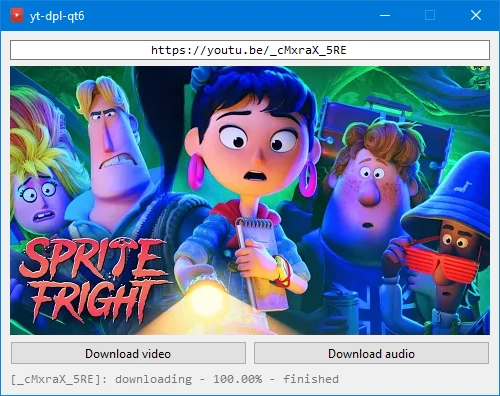
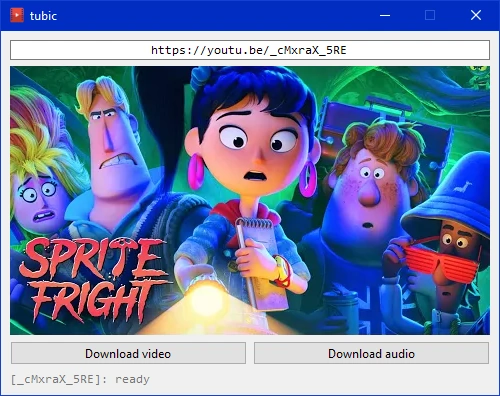
REDAME++

diff --git a/README.md b/README.md
@@ -3,13 +3,77 @@
 # tubic
 ![Screenshot](tubic.webp)
 
-A simple graphical interface for the [yt-dlp](https://github.com/yt-dlp/yt-dlp) tool.
+A simple lightweight portable single-file program to download videos from YouTube.
 
-The application is packed in a single executable file with no dependencies.
+---
+
+> Why making another YouTube downloader, when we already have `%YOUR_FAVORITE_APP_NAME%`, which is a lot better, than your stuff will ever be?
+
+Well...
+
+~~Just for fun~~
+
+~~Because I can~~
+
+I've been trying out several tools of that kind, and each one of them had some flaw critical for me. Such as:
+ 
+ - overweight — installing TarTube once took me something about half an hour
+ - console-only — so I was unable to recomend it to my elderly relatives and non-IT friends
+ - comercial
+ - server-side component — so at some point you find your tool turned into a pumpkin because the servers are down 
+ - overly complex GUI (again elderly relatives won't appriciate)
+
+So I feel an unfulfilled demand for a very simple tool, which would:
+- -be able to download both video and audio from a YouTube link
+- -have a simple GUI (the less buttons — the better)
+- -be portable (ideally: packed in a single executable)
+
+The features I (subjectively) consider redundant for my subset of use cases:
+- sequential download from a list of links
+- post-processing (`video: 1080p → 780p` or `audio: 320 kbps → 96 kbps`)
+- converting formats (`mp4 → mkv` or `webm → mp3`) 
+
+So that's how I've decided to make this stuff.
+
+It uses [yt-dlp](https://github.com/yt-dlp/yt-dlp) (and utilizes probably less then 5% of it's full functionality). 
+
+The UI is implemented with [PyQt6](https://pypi.org/project/PyQt6/).
+
+The application is packed in a single executable file with no dependencies (thanks to [`pyinstaller`](https://pypi.org/project/pyinstaller/)).
 
 The target OS is currently Windows ≥ 10. Though, there's no OS-dependent features or libs used, so you're free to try and build it on Linux.
 
 --- 
+
+## Building
+
+### Software requirements
+- [**Python3.10**](https://www.python.org/downloads/)
+
+- [**make**](https://en.wikipedia.org/wiki/Make_(software)) tool — for build-automation. To install it on Windows, one can try [`GNU make 4.3`](https://community.chocolatey.org/packages/make)  package from  [Chocolatey](https://github.com/chocolatey/choco) package manager.
+
+- [**Poetry**](https://python-poetry.org/) — to administer Python depandancies.
+
+- **Qt Designer** — to edit `*.ui` files (to draw windows and GUI elements in WYSIWYG editor). Versions `5.*` and `6.*` are equaly suitable. To install it there are several options:
+    - a [third party standalone installer](https://build-system.fman.io/qt-designer-download)
+    - a [PySide6 pip package](https://pypi.org/project/PySide6/) (`pip install PySide6` or `poetry add -D PySide6`, and then run `pyside6-designer`)
+    - the [official site](https://www.qt.io/) — ironicaly, not the best way, cause it is not destrebuted separately from all the over Qt tools and requites registration
+
+### First run
+In the project directory execute:
+
+```bash
+poetry install
+```
+\- to download all the Python packages required.
+
+Qt Designer related files can be found at `tubic/qt_wrap/ui`.
+
+### Basic `make` tergets
+- `make test` — run unit tests
+- `make runpy` — run app with Python
+- `make build` — create an executable in a `bin` folder
+---
 
 ## License
 
